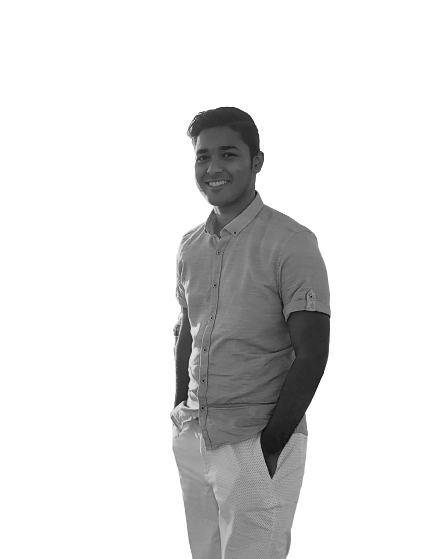
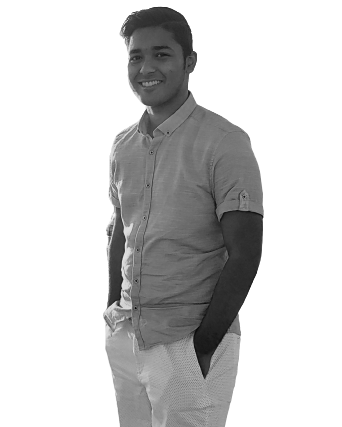
fixed sizing and cross platform compatibility

Changed region(s): [[0.2924, 0.0, 0.7895, 1.0], [0.614, 0.6698, 0.6433, 0.7002], [0.5848, 0.6393, 0.614, 0.6698]]

diff --git a/index.html b/index.html
@@ -26,9 +26,9 @@
             <img src="logo-gmail-9952.png" alt="Email" height="25px">
         </a>
     </div>
-    <div class="para" style="display: block;">
-        <img src="20200117_231326-removebg-preview.png" alt="" height="300px">
-        <p style="display: inline;">My name is Saheer</p>
+    <div class="para" style="display: flex;">
+        <img src="20200117_231326-removebg-preview.png" alt="" width="20%">
+        <p">My name is SaheerMy name is SaheerMy name is SaheerMy name is SaheerMy name is SaheerMy name is SaheerMy name is SaheerMy name is SaheerMy name is SaheerMy name is SaheerMy name is SaheerMy name is SaheerMy name is SaheerMy name is SaheerMy name is SaheerMy name is SaheerMy name is SaheerMy name is SaheerMy name is SaheerMy name is SaheerMy name is SaheerMy name is SaheerMy name is SaheerMy name is SaheerMy name is SaheerMy name is SaheerMy name is SaheerMy name is SaheerMy name is SaheerMy name is SaheerMy name is SaheerMy name is SaheerMy name is SaheerMy name is SaheerMy name is SaheerMy name is SaheerMy name is SaheerMy name is SaheerMy name is SaheerMy name is SaheerMy name is SaheerMy name is SaheerMy name is SaheerMy name is SaheerMy name is SaheerMy name is SaheerMy name is SaheerMy name is SaheerMy name is SaheerMy name is SaheerMy name is SaheerMy name is SaheerMy name is SaheerMy name is SaheerMy name is SaheerMy name is SaheerMy name is SaheerMy name is SaheerMy name is SaheerMy name is SaheerMy name is SaheerMy name is Saheer</p>
     </div>
     
 </body>

diff --git a/style.css b/style.css
@@ -4,10 +4,14 @@ html{
 .titleName{
     color: white;
     text-align: center;
-    font-family: 'Noto Sans KR', sans-serif;;
+    font-family: 'Noto Sans KR', sans-serif;
 }
 .para{
+    box-shadow: 50px;
+    vertical-align: top;
+    padding-top: 5%;
     padding-bottom: 5%;
+    padding-right: 5%;
     font-size: large;
     font-family: 'Noto Sans KR', sans-serif;;
     text-align: justify;
@@ -18,5 +22,5 @@ html{
 }
 .logos{
     text-align: center;
-    padding-bottom: 1%;
+    padding-bottom: 5%;
 }
